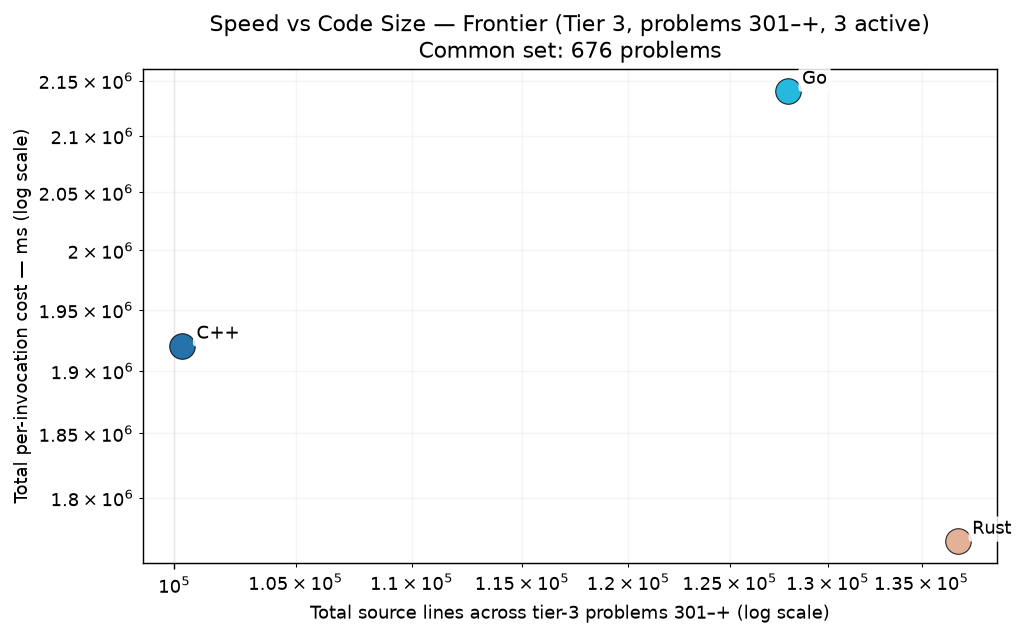
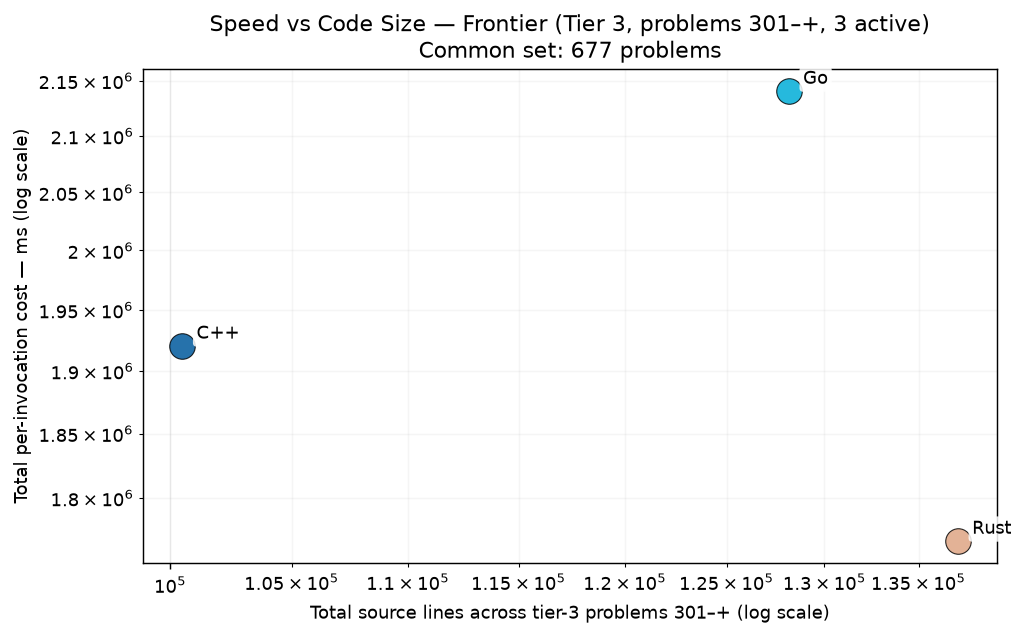
cpp p0902

diff --git a/RESULTS.md b/RESULTS.md
@@ -1,6 +1,6 @@
 # Project Euler — Cross-Language Benchmarks
 
-> **Scope: 4521 in-scope cells across 1007 problems × tiered languages — 4457 measured (98.6% coverage).**
+> **Scope: 4521 in-scope cells across 1007 problems × tiered languages — 4458 measured (98.6% coverage).**
 > The cross-language ranking below is computed over the **200-problem common set** (problems in 1-200 where every language has a passing measurement) — the apples-to-apples Foundation comparison surface.  Per-tier rankings and coverage detail appear further below.
 > Growing carefully — each new problem and language is audited for state-leak
 > safety, verified for answer correctness, and added only when it cleanly fits the
@@ -70,15 +70,15 @@ Same scatter as the Foundation chart, restricted to the tier-2 active languages 
 
 The frontier verification trio — C++, Go, Rust — on problems above 300. 3-way cross-language agreement is the verification protocol (strictly stronger than 2-way; see JOURNEY.md "Tier Reframing" episode for the p254 lesson that motivated it). Python and Zig are explicitly out of this tier — python's wall cost makes it impractical at level 5+, and zig's role caps at Tier 2.
 
-### Per-Invocation Cost (Common Set, 676 of ≤707 problems in scope)
+### Per-Invocation Cost (Common Set, 677 of ≤707 problems in scope)
 
 ![Per-Invocation Cost — Tier 3](charts/per_iter_total_tier3.png)
 
-| Rank | Language | Geomean (676-problem common set) | Total (sum) | Lines of code | vs Fastest |
+| Rank | Language | Geomean (677-problem common set) | Total (sum) | Lines of code | vs Fastest |
 |------|----------|--------------------:|------------:|--------------:|-----------:|
-| 1 | **Rust** | 75.50 ms | 1767.20 s | 136,973 | 1.00× |
-| 2 | **C++** | 78.20 ms | 1920.29 s | 100,317 | 1.04× |
-| 3 | **Go** | 88.43 ms | 2140.38 s | 127,931 | 1.17× |
+| 1 | **Rust** | 75.48 ms | 1767.26 s | 137,139 | 1.00× |
+| 2 | **C++** | 78.20 ms | 1920.37 s | 100,484 | 1.04× |
+| 3 | **Go** | 88.46 ms | 2140.49 s | 128,151 | 1.17× |
 
 ### Speed vs Code Size
 
@@ -264,7 +264,7 @@ table never silently mixes versions (METHODOLOGY.md §4).  Current state of the
 |----------|-----------|------:|---------------|
 | **ARM64** | `Apple clang version 21.0.0 (clang-2100.1.1.101)` | 200 | 2026-07-30 |
 | **C** | `Apple clang version 21.0.0 (clang-2100.1.1.101)` | 200 | 2026-07-30 |
-| **C++** | `Apple clang version 21.0.0 (clang-2100.1.1.101)` | 976 | 2026-09-06 |
+| **C++** | `Apple clang version 21.0.0 (clang-2100.1.1.101)` | 977 | 2026-09-06 |
 | **C#** | `10.0.101` | 200 | 2026-07-30 |
 | **Go** | `go version go1.26.5 darwin/arm64` | 979 | 2026-09-06 |
 | **Java** | `openjdk version "21.0.2" 2024-01-16 LTS` | 200 | 2026-07-30 |

diff --git a/per_problem/per_problem_0901-1000.md b/per_problem/per_problem_0901-1000.md
@@ -9,7 +9,7 @@ in tier-1 display order (native → managed → interpreted).
 | Problem | C++ | Rust | Go |
 |---------|----:|----:|----:|
 | **p0901** | 92.16 ms | 10.58 ms | 123.20 ms |
-| **p0902** | — | 60.15 ms | 109.14 ms |
+| **p0902** | 77.66 ms | 60.15 ms | 109.14 ms |
 | **p0903** | — | 25.05 ms | — |
 | **p0904** | 108.50 ms | 161.32 ms | 158.96 ms |
 | **p0905** | 342.76 ms | 11.53 ms | 709.42 ms |
